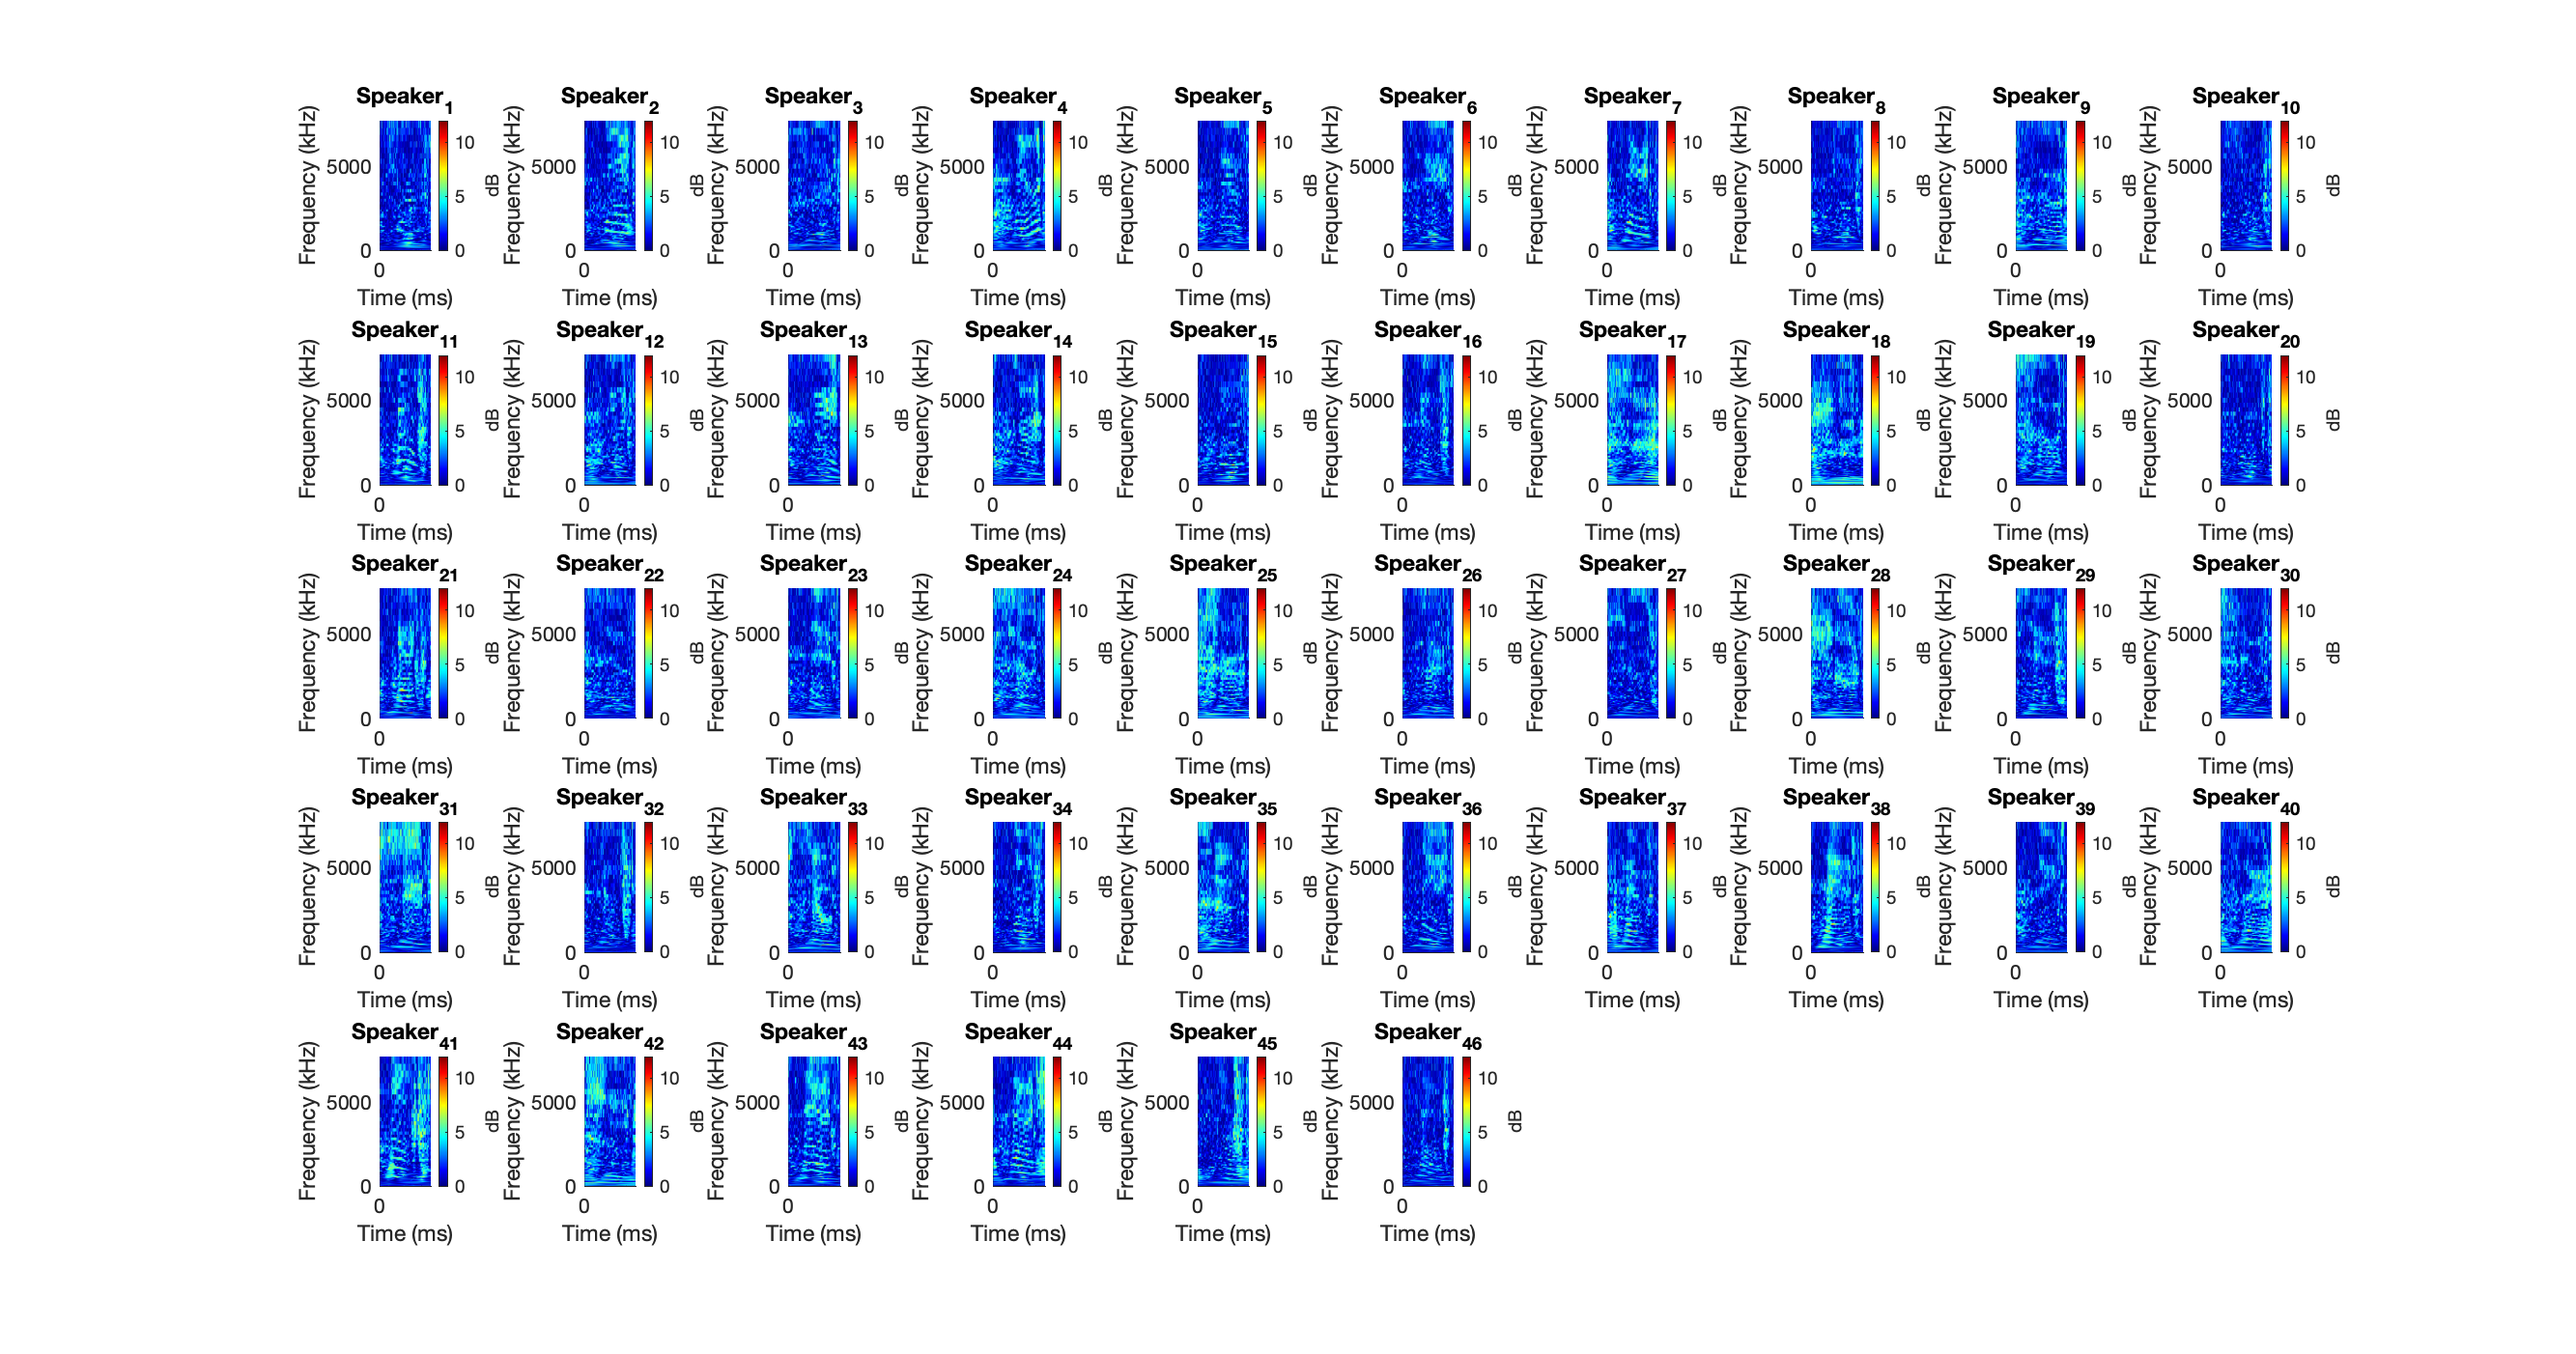
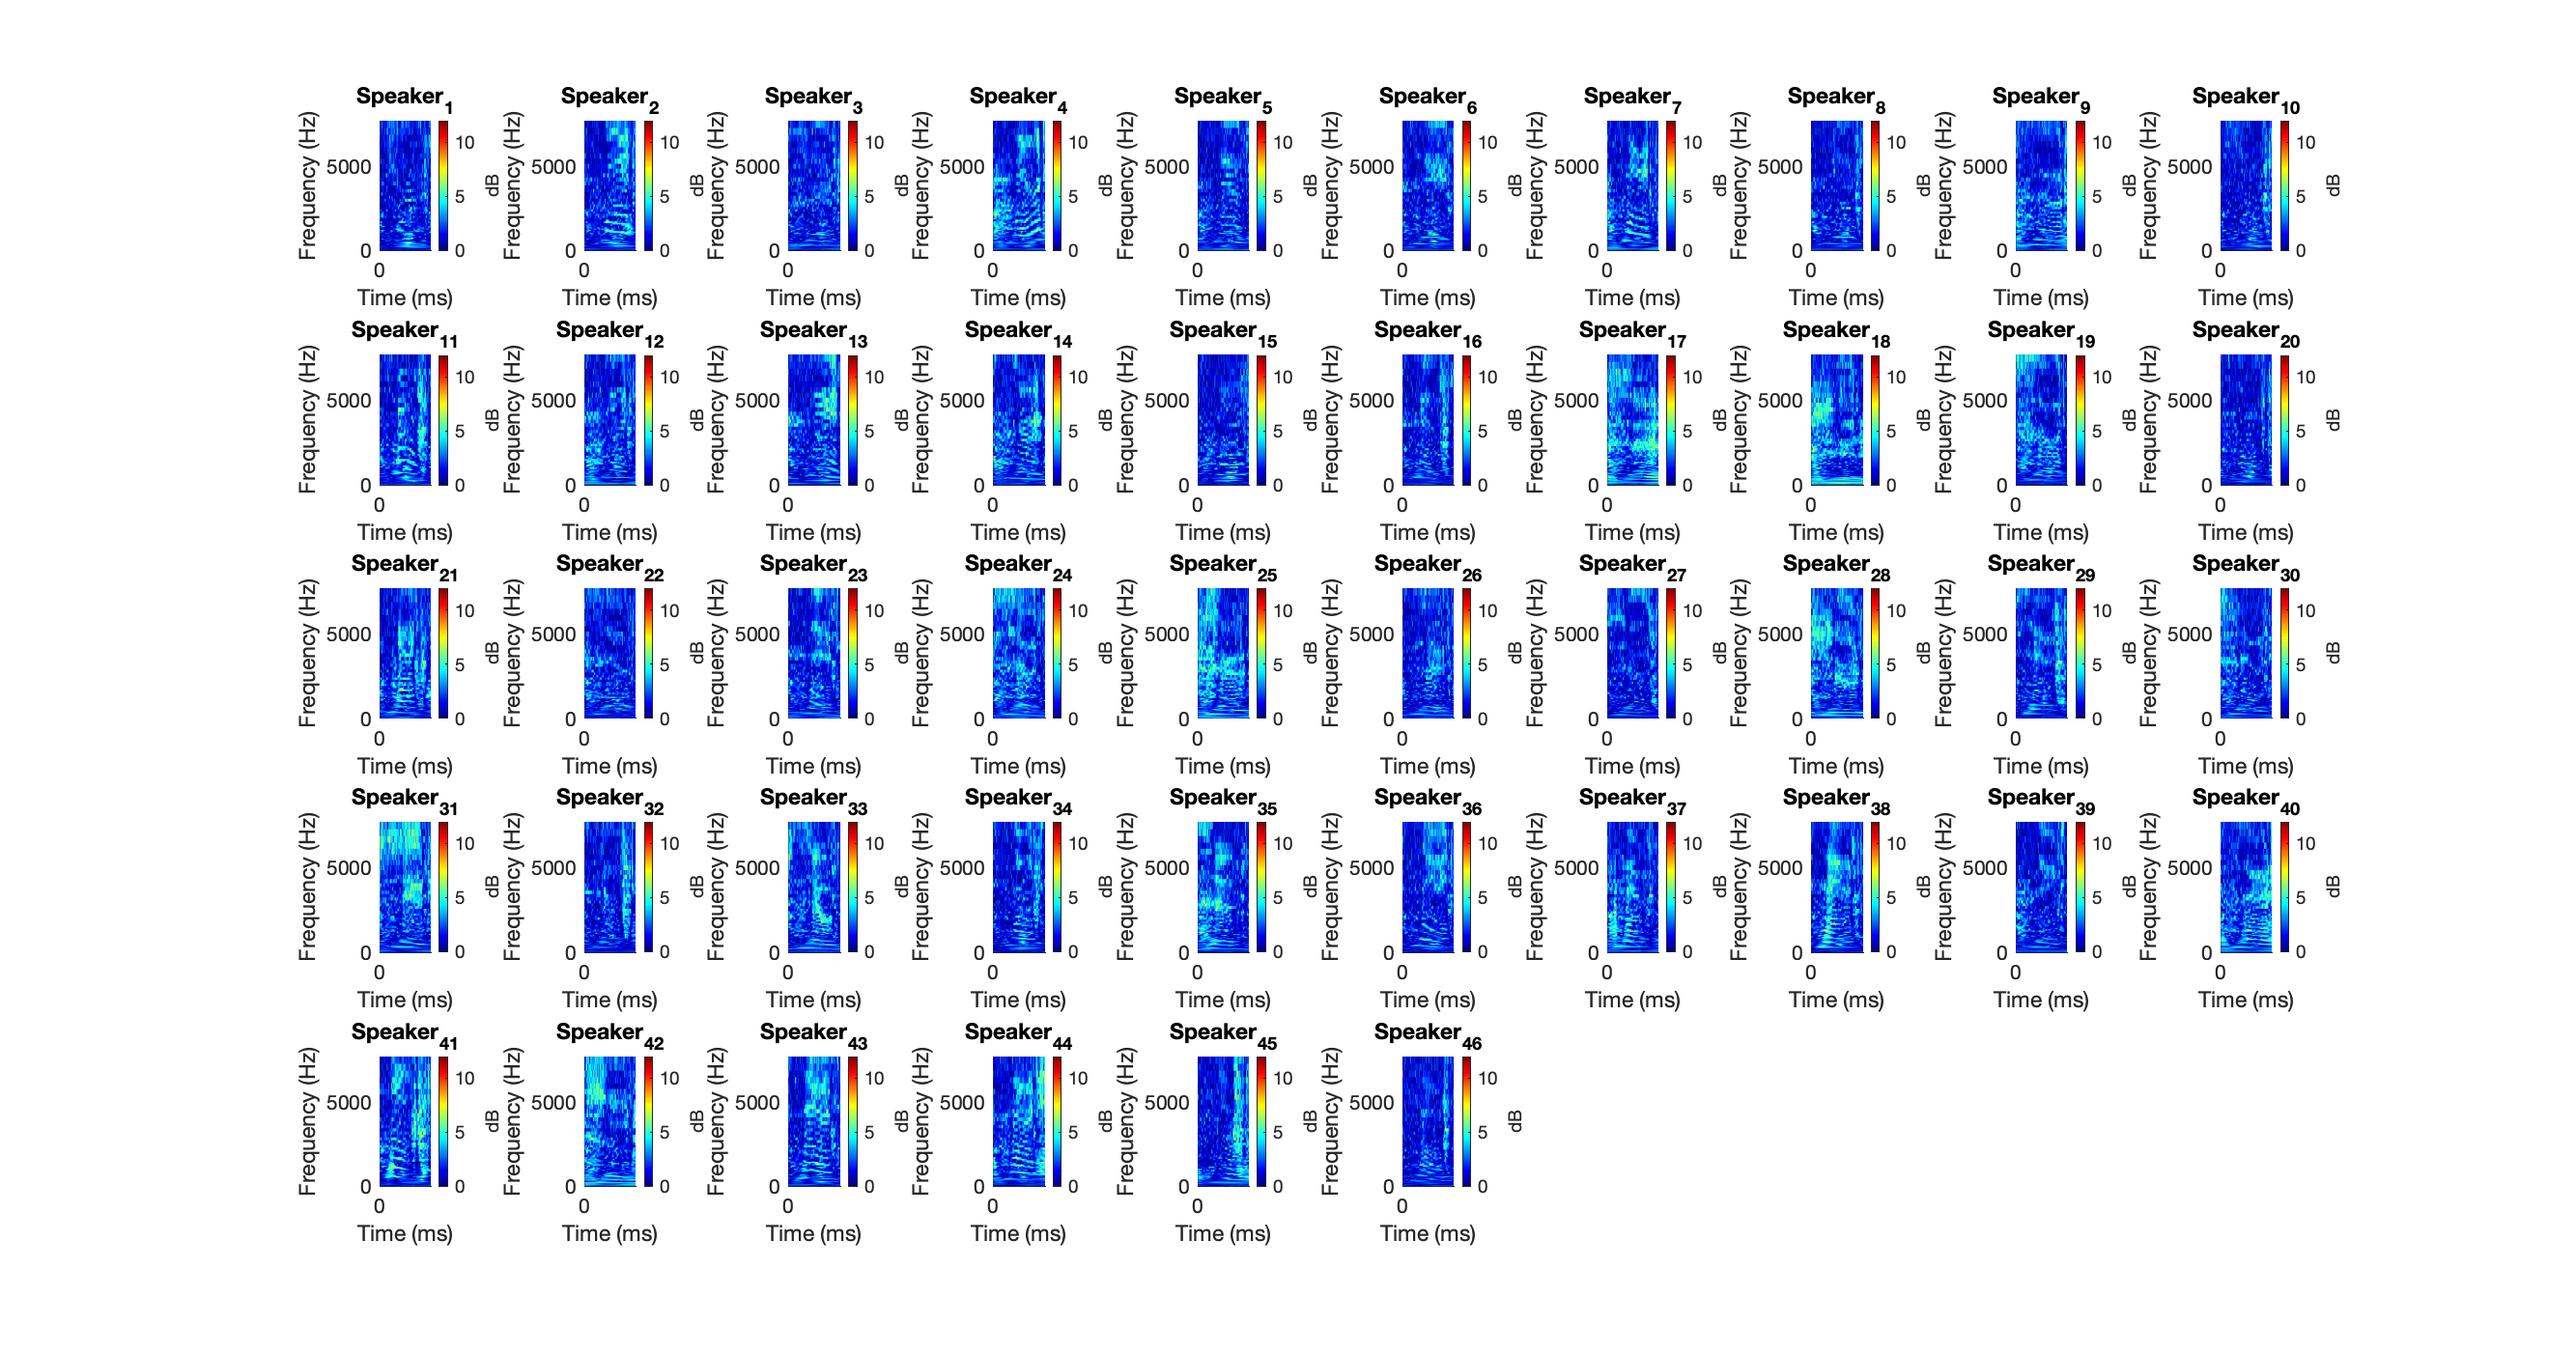
Description updates

diff --git a/rationale-TIMIT_CQTs/matlab/group_CQT.m b/rationale-TIMIT_CQTs/matlab/group_CQT.m
@@ -64,14 +64,14 @@ surf(t, f_e, X_e, 'EdgeColor', 'None');
 view(2);
 axis([1 size(X_e, 2) 0 max(f_e)]);
 c = colorbar;
-ylabel("Frequency (kHz)");
+ylabel("Frequency (Hz)");
 xlabel("Time (ms)");
 ylabel(c, "dB");
 title("Mean constant-Q spectrogram");
 saveas(gcf, strcat(out, "group_mean.png"));
 
 %% k-means
-X_k_clusters = 10;
+X_k_clusters = 5;
 X_k_m = reshape(X, [size(X, 1) * size(X, 2), size(X, 3)]);
 X_k_m = log(abs(X_k_m) .^ 2);
 [X_k_idx, X_k_C] = kmeans(X_k_m, X_k_clusters, 'MaxIter', 1000);
@@ -81,7 +81,7 @@ figure;
 surf(t, f_e, X_k_idx_select, 'EdgeColor', 'None');
 view(2);
 axis([1 size(X_k_idx_select, 2) 0 max(f_e)]);
-ylabel("Frequency (kHz)");
+ylabel("Frequency (Hz)");
 xlabel("Time (ms)");
 title("Raw k-means cluster view");
 saveas(gcf, strcat(out, "group_mean_cluster.png"));
@@ -114,7 +114,7 @@ axis([1 size(X_k_m_transform, 2) 0 max(f_e)]);
 c_ti = linspace(1, max(max(X_k_m_transform)), X_k_clusters);
 c_tl = arrayfun(@(x) ('Cluster ' + string(x)), 1:X_k_clusters);
 c = colorbar('Ticks', c_ti, 'TickLabels', c_tl, 'Limits', [1 max(max(X_k_m_transform)) + 1]);
-ylabel("Frequency (kHz)");
+ylabel("Frequency (Hz)");
 xlabel("Time (ms)");
 ylabel(c, "K-Means Cluster with scaling normalised energy");
 title("Clustered and scaled constant-Q spectrogram");

diff --git a/rationale-TIMIT_CQTs/matlab/group_CQT_comprehensive.m b/rationale-TIMIT_CQTs/matlab/group_CQT_comprehensive.m
@@ -64,14 +64,14 @@ surf(t, f_e, X_e, 'EdgeColor', 'None');
 view(2);
 axis([1 size(X_e, 2) 0 max(f_e)]);
 c = colorbar;
-ylabel("Frequency (kHz)");
+ylabel("Frequency (Hz)");
 xlabel("Time (ms)");
 ylabel(c, "dB");
 title("Mean constant-Q spectrogram");
 saveas(gcf, strcat(out, "group_mean.png"));
 
 %% group mean PCA
-[PCA_M_coeff, PCA_M_score, PCA_M_latent, PCA_M_ts, PCA_M_e, PCA_M_mu] = pca(X_e);
+%[PCA_M_coeff, PCA_M_score, PCA_M_latent, PCA_M_ts, PCA_M_e, PCA_M_mu] = pca(X_e);
 
 %% individual spectrograms
 figure;
@@ -108,7 +108,7 @@ view(2);
 axis([1 size(test_cqt, 2) 0 max(f_e)]);
 c = colorbar;
 colormap jet;
-ylabel("Frequency (kHz)");
+ylabel("Frequency (Hz)");
 xlabel("Time (ms)");
 ylabel(c, "dB");
 title("Standard deviation of constant-Q spectrogram");
@@ -118,7 +118,7 @@ saveas(gcf, strcat(out, "group_variance.png"));
 X_var_s = sqrt(((X_se - X_ee) .^ 2) ./ 2);
 
 figure;
-title("Deviance spectrograms by speaker");
+title("Deviation spectrograms by speaker");
 
 plot_y = 10;
 plot_x = ceil(size(M, 2) / 10);
@@ -133,7 +133,7 @@ for i = 1:size(M, 2)
     c = colorbar;
     colormap jet;
     caxis([0 12]);
-    ylabel("Frequency (kHz)");
+    ylabel("Frequency (Hz)");
     xlabel("Time (ms)");
     ylabel(c, "dB");
     title("Speaker_{" + string(i) + "}");
